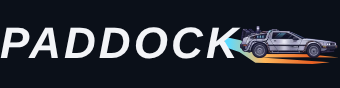
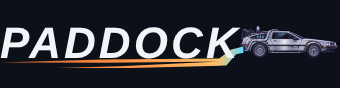
Send the trail backwards and animate the DeLorean time jump

Changed region(s): [[0.0, 0.4318, 1.0, 0.7727]]

diff --git a/web/src/styles.css b/web/src/styles.css
@@ -55,25 +55,37 @@ h1, h2, h3, p { margin-top: 0; }
   margin-inline-start: -.37em;
   padding-inline-start: .34em;
 }
-.brand-car img { position: relative; display: block; width: 100%; height: auto; }
+.brand-car img { display: block; width: 100%; height: auto; }
 .brand-trail {
   position: absolute;
-  inset-inline: 0;
-  inset-block-end: -.12em;
-  height: .62em;
+  z-index: -1;
+  inset-inline: 0 -.06em;
+  inset-block-end: .01em;
+  height: .51em;
   overflow: hidden;
-  background: linear-gradient(90deg, #5fdbff 4%, #ffb85c 35%, #e75e22 78%, #f39441);
-  clip-path: polygon(0 0, 15% 14%, 31% 62%, 74% 64%, 100% 76%, 72% 75%, 32% 76%, 92% 94%, 77% 100%, 27% 96%, 13% 56%, 0 38%);
+  background: linear-gradient(90deg, #d35d28, #ff9146 52%, #ffbf6b 89%, #5fdbff);
+  clip-path: polygon(100% 0, 95% 14%, 90% 54%, 42% 58%, 0 72%, 43% 73%, 91% 67%, 49% 88%, 12% 100%, 54% 96%, 93% 85%, 97% 35%, 100% 28%);
 }
 .brand-trail::before, .brand-trail::after {
   content: '';
   position: absolute;
   inset: 0;
   background: linear-gradient(90deg, transparent 18%, #ff793f 36%, #fff0b2 48%, #ffd16a 57%, transparent 76%);
-  transform: translateX(-100%);
+  transform: translateX(100%);
 }
-.brand-trail::after, .wordmark:is(:hover, :focus-visible) .brand-trail::before { animation: time-trail 1.1s ease-out both; }
-@keyframes time-trail { to { transform: translateX(100%); } }
+.brand-trail::after, .wordmark:is(:hover, :focus-visible) .brand-trail::before { animation: time-trail 1.8s linear both; }
+.brand-car img, .wordmark:is(:hover, :focus-visible) .brand-car { animation: time-jump 1.8s ease-in-out both; }
+@keyframes time-trail {
+  0%, 10% { transform: translateX(100%); opacity: 0; }
+  18% { opacity: 1; }
+  68%, 100% { transform: translateX(-100%); opacity: 0; }
+}
+@keyframes time-jump {
+  0%, 12%, 64%, 100% { opacity: 1; translate: 0; }
+  20% { opacity: .65; translate: .07em; }
+  27%, 41% { opacity: 0; translate: .2em; }
+  49% { opacity: .45; translate: -.08em; }
+}
 nav { display: flex; flex-wrap: wrap; align-items: center; max-width: 100%; gap: 34px; color: var(--muted); font-size: 13px; font-weight: 550; }
 nav a { padding-block: 12px; transition: color .15s; }
 nav a:hover, nav .nav-active { color: #fff; }

diff --git a/web/src/App.tsx b/web/src/App.tsx
@@ -118,9 +118,8 @@ export default function App() {
     <header className="site-header"><div className="header-inner">
       <a className="wordmark" href="#inicio" aria-label="Paddock, inicio">
         <span className="brand-lockup" aria-hidden="true">
-          <span className="brand-name">PADDOCK</span>
+          <span className="brand-name">PADDOCK<span className="brand-trail" /></span>
           <span className="brand-car">
-            <span className="brand-trail" />
             <img src={deloreanImage} width="180" height="61" alt="" />
           </span>
         </span>

diff --git a/docs/plan-diseno-regreso-al-futuro.md b/docs/plan-diseno-regreso-al-futuro.md
@@ -54,4 +54,4 @@ El último ajuste amplía el coche un 11,6 %. El recorte pasa de unos 56 a 62 px
 
 La cabecera usa una ilustración generada a partir del DeLorean del TFM. El coche mira a la derecha y conserva la carrocería de acero en cuña, las dos ruedas en la línea base de PADDOCK y los detalles traseros de la máquina del tiempo. El coche se sirve como WebP transparente de 180 × 61 px y 4.442 bytes.
 
-El trazo cian sale del hueco de la K, gira hacia el suelo y termina en dos líneas de fuego bajo el coche. Una luz recorre la estela durante 1,1 segundos al cargar, al pasar el puntero o al enfocar el enlace con el teclado. La preferencia de movimiento reducido conserva el trazo estático. El coche y el efecto se comprobaron en Chromium entre 320 y 1440 px. [Estela animada](evidence/ux/regreso-al-futuro/estela-animada.gif) · [Móvil con movimiento reducido](evidence/ux/regreso-al-futuro/estela-movil.png).
+La estela nace en la parte trasera del coche, cruza el hueco de la K y se extiende hacia la izquierda por debajo de PADDOCK. El coche se desvanece mientras un destello recorre las dos líneas de fuego de la K a la P, y reaparece en su sitio. La secuencia de 1,8 segundos se reproduce al cargar, al pasar el puntero o al enfocar el enlace con el teclado. La preferencia de movimiento reducido conserva el coche y el trazo estáticos. Se comprobó en Chromium entre 320 y 1440 px. [Secuencia en GIF](evidence/ux/regreso-al-futuro/estela-animada.gif) · [Móvil con movimiento reducido](evidence/ux/regreso-al-futuro/estela-movil.png).
